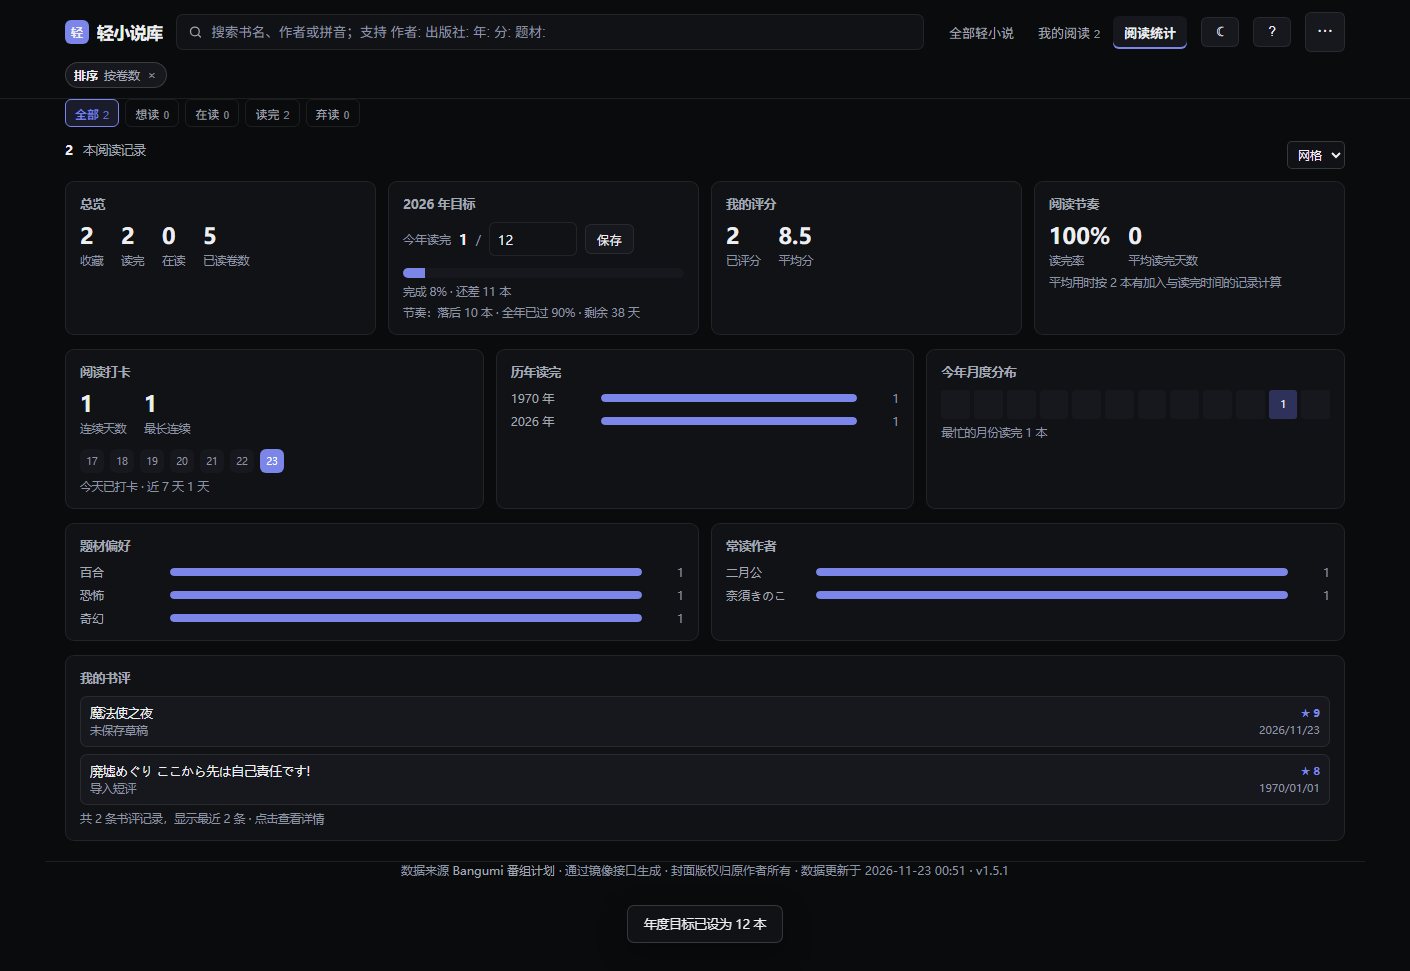
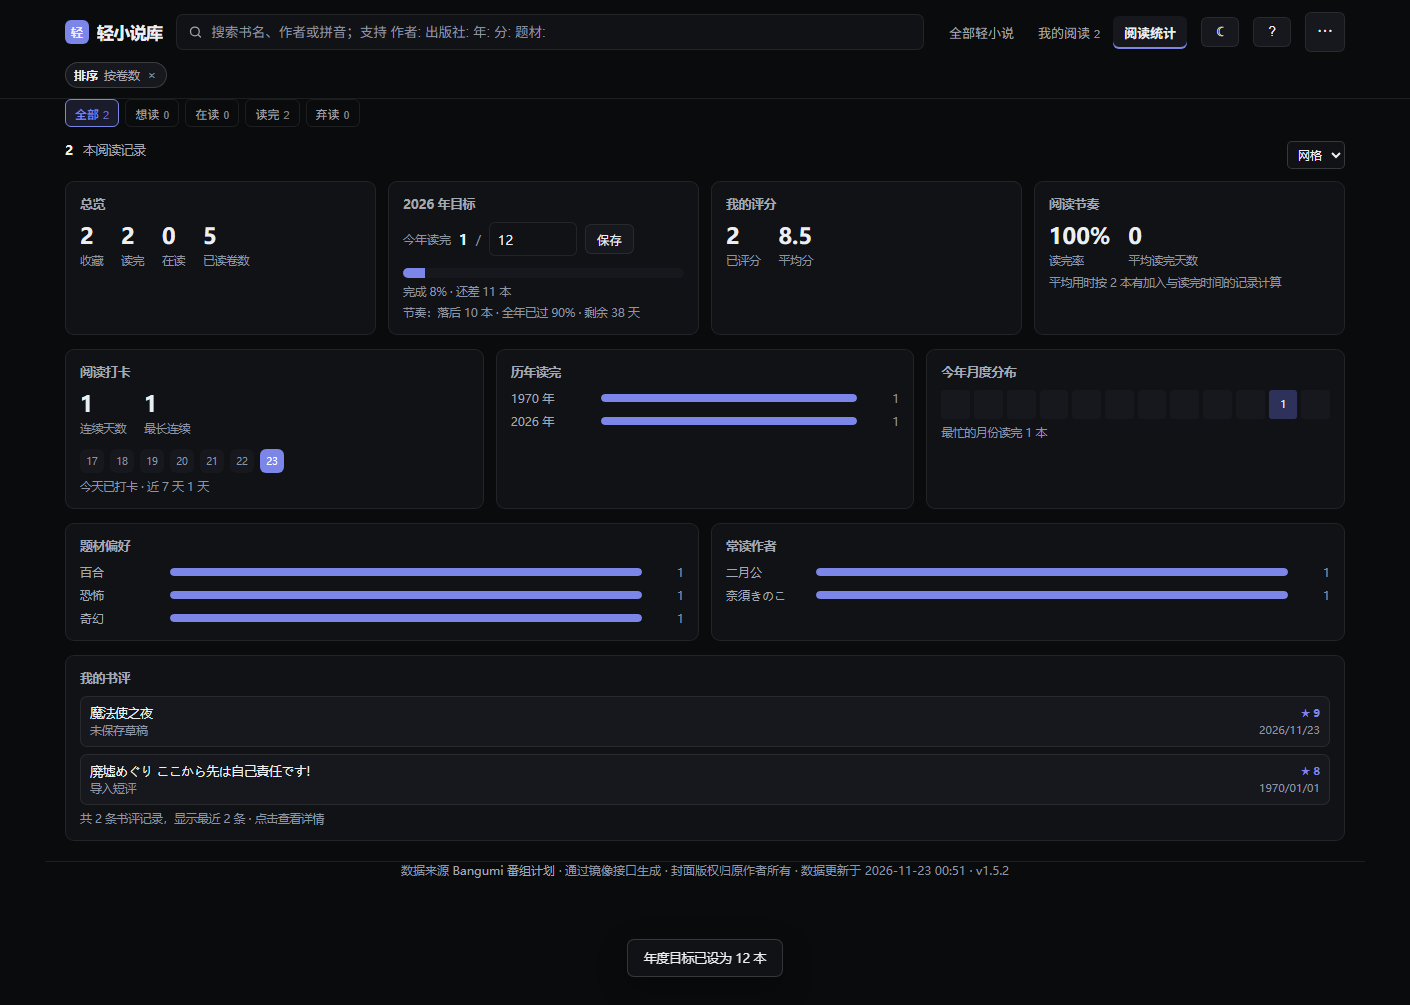
improve: 相似推荐按同作者/同书系/同题材排序并标注理由（参考 Goodreads / StoryGraph）

diff --git a/index.html b/index.html
@@ -18,7 +18,7 @@
 <link rel="preconnect" href="https://bgmimg.anibt.net" crossorigin>
 <link rel="dns-prefetch" href="https://bgmimg.anibt.net">
 <meta name="theme-color" content="#0a0b0d">
-<meta name="version" content="1.5.1">
+<meta name="version" content="1.5.2">
 <style>
   :root {
     --bg: #0d0f14;
@@ -947,6 +947,7 @@
 
   .sim-card .sim-title { font-size: 12px; font-weight: 600; }
   .sim-card .sim-meta { font-size: 11px; color: var(--muted-2); }
+  .sim-card .sim-why { color: var(--accent); font-weight: 600; }
 
   @media (max-width: 900px) {
     .board { grid-template-columns: repeat(2, minmax(0, 1fr)); }
@@ -2781,7 +2782,7 @@
 </main>
 
 <footer class="wrap">
-  数据来源 <a href="https://bgm.tv" target="_blank" rel="noreferrer">Bangumi 番组计划</a> · 通过镜像接口生成 · 封面版权归原作者所有 · 数据更新于 <span id="dataUpdated" title="Bangumi 数据快照生成时间">—</span> · <span title="项目版本">v1.5.1</span>
+  数据来源 <a href="https://bgm.tv" target="_blank" rel="noreferrer">Bangumi 番组计划</a> · 通过镜像接口生成 · 封面版权归原作者所有 · 数据更新于 <span id="dataUpdated" title="Bangumi 数据快照生成时间">—</span> · <span title="项目版本">v1.5.2</span>
 </footer>
 
 <div class="modal" id="modal" hidden>
@@ -4997,20 +4998,47 @@
     return n;
   }
 
-  // 相似推荐：题材重叠优先，其次同类型，再按评分接近程度取前 4 本
-  function similarItems(item, limit) {
-    var pid = String(item.i);
-    var base = Number(item.s) || 0;
-    var pool = DATA.filter(function (x) {
-      return String(x.i) !== pid && (x.kind || '') === (item.kind || '');
+  // 作者字段可能是多人合写，拆开后逐个比对，避免「A / B」整串相等才命中
+  function authorNames(value) {
+    return String(value || '').split(/[\/、,，&]/).map(function (s) {
+      return s.trim().toLowerCase();
+    }).filter(function (s) { return s; });
+  }
+
+  // 相似推荐打分：同作者 > 同书系 > 同题材 > 评分接近，并给出推荐理由
+  // 参考 Goodreads「Readers also enjoyed」、StoryGraph「Browse similar books」的推荐理由展示
+  function similarWhy(a, item) {
+    var mine = authorNames(item.au);
+    var sharedAuthor = mine.length > 0 && authorNames(a.au).some(function (n) {
+      return mine.indexOf(n) >= 0;
     });
-    return pool.sort(function (a, b) {
-      var oa = genreOverlap(a, item);
-      var ob = genreOverlap(b, item);
-      if (oa !== ob) return ob - oa;
-      return Math.abs((Number(a.s) || 0) - base) - Math.abs((Number(b.s) || 0) - base);
+    var sameLine = !!(item.line && a.line && String(a.line) === String(item.line));
+    var overlap = genreOverlap(a, item);
+    var score = 0;
+    var why = '';
+    if (sharedAuthor) { score += 100; why = '同作者'; }
+    if (sameLine) { score += 40; if (!why) why = '同书系'; }
+    if (overlap > 0) { score += Math.min(overlap, 3) * 10; if (!why) why = '同题材'; }
+    // 同档位时优先评分接近的，避免把头部大热作品硬塞进推荐
+    score += Math.max(0, 10 - Math.abs((Number(a.s) || 0) - (Number(item.s) || 0)));
+    return { score: score, why: why || '评分接近' };
+  }
+
+  // 相似推荐：只取同类型条目，按推荐理由强弱排序后取前 N 本
+  function similarItems(item, limit, pool) {
+    var pid = String(item.i);
+    var source = pool || DATA;
+    return source.filter(function (x) {
+      return String(x.i) !== pid && (x.kind || '') === (item.kind || '');
+    }).map(function (x) {
+      var r = similarWhy(x, item);
+      return { x: x, score: r.score, why: r.why };
+    }).sort(function (a, b) {
+      if (b.score !== a.score) return b.score - a.score;
+      return String(a.x.i) < String(b.x.i) ? -1 : 1;
     }).slice(0, limit);
   }
+  window.__lnSimilar = similarItems;
 
   // 详情进度条：已收藏且卷数已知时显示，一键记录读到第几卷
   function progressHtml(item, entry) {
@@ -5164,11 +5192,13 @@
 
     var sims = similarItems(item, 4);
     $('detailSimilar').innerHTML = sims.length
-      ? '<div class="similar-head">相似推荐 · 同题材</div><div class="similar-list">' +
-        sims.map(function (x) {
+      ? '<div class="similar-head">相似推荐 · 同作者 / 同书系优先</div><div class="similar-list">' +
+        sims.map(function (o) {
+          var x = o.x;
           return '<button class="sim-card" type="button" data-sim="' + x.i + '">' +
             '<span class="sim-title">' + escapeHtml(x.cn || x.n || '未知书目') + '</span>' +
-            '<span class="sim-meta">' + (x.s ? Number(x.s).toFixed(1) : '暂无') +
+            '<span class="sim-meta"><b class="sim-why">' + escapeHtml(o.why) + '</b> · ' +
+            (x.s ? Number(x.s).toFixed(1) : '暂无') +
             (x.d ? ' · ' + escapeHtml(x.d) : '') + '</span></button>';
         }).join('') + '</div>'
       : '';

diff --git a/sw.js b/sw.js
@@ -1,5 +1,5 @@
 // 应用壳离线缓存：首页网络优先并带超时回退，其余同源资源缓存优先、后台更新
-var CACHE = 'yuc-ln-shell-v17';
+var CACHE = 'yuc-ln-shell-v18';
 var SHELL = ['./', './index.html', './manifest.webmanifest', './icon.svg', './icons/icon-180.png', './icons/icon-192.png', './icons/icon-512.png', './data/light-novels.js'];
 var IMG_LIMIT = 400;
 
